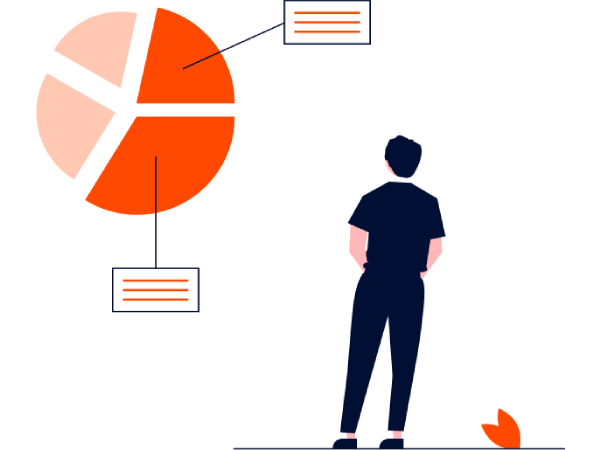
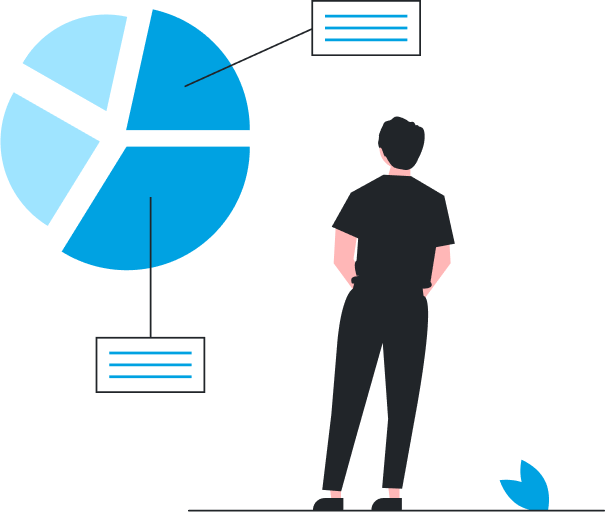
images

Changed region(s): [[0.0, 0.0, 0.72, 0.7778], [0.3, 0.2178, 1.0, 1.0]]

diff --git a/src/mainViews/home/views/productDetailsExplain/styles.module.scss b/src/mainViews/home/views/productDetailsExplain/styles.module.scss
@@ -93,6 +93,6 @@
     #22262a -9.5%,
     #040505 28.98%,
     #040505 61.61%,
-    #852601 100.79%
+    #005779 100.79%
   );
 }
